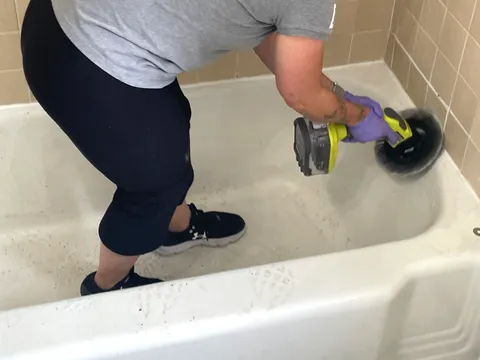
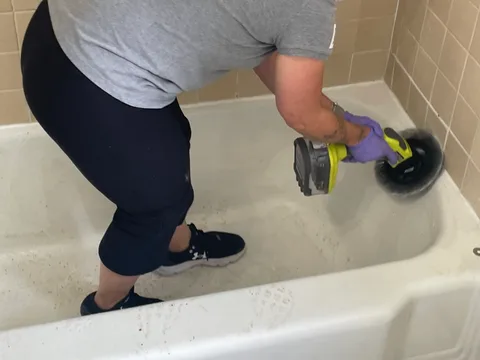
revert(post-construction): original hero photo, and no tonal editing on the rest
Client's call on both. The hero goes back to team-post-construction.jpg, the
empty new build with two crew members, and the generated crop is deleted.

The brightness, gamma and saturation adjustments come off the five inline
photos. Colours are the ones in the camera files now, at webp quality 86 rather
than the 82-84 used before. What remains is only what the layout needs: the
aspect crop each slot requires and the format conversion.

Two crops stay manual and cannot be dropped. The equipment source is a
screenshot with carousel navigation arrows baked into the frame, so the sides
have to come off, and the ceiling shot has to be framed from the top or the
automatic subject detection crops the ceiling out of a photo about cleaning a
ceiling.

diff --git a/src/pages/PostConstructionCleaningPage.tsx b/src/pages/PostConstructionCleaningPage.tsx
@@ -34,7 +34,7 @@ const SPOKES = [
   "move-in-cleaning-checklist",
 ];
 
-const HERO_IMAGE = "/images/services/post-construction/hero.webp";
+const HERO_IMAGE = "/images/team/team-post-construction.jpg";
 const IMG = "/images/services/post-construction";
 
 // The eight-step order the crews actually work in. Order is the whole point: every surface
@@ -238,12 +238,10 @@ const PostConstructionCleaningPage = () => {
                 <div className="aspect-[4/3] overflow-hidden rounded-3xl border border-border shadow-2xl">
                   <img
                     src={HERO_IMAGE}
-                    srcSet={`${IMG}/hero-400.webp 400w, ${HERO_IMAGE} 800w`}
-                    sizes="(min-width: 1024px) 560px, 100vw"
-                    alt="A Capital Clean Care crew working through a finished basement after construction, with floor machines and detail tools laid out"
+                    alt="Two uniformed Capital Clean Care team members cleaning windows and mopping in an empty newly built home"
                     className="h-full w-full object-cover"
-                    width={800}
-                    height={600}
+                    width={574}
+                    height={760}
                     loading="eager"
                     fetchPriority="high"
                   />
